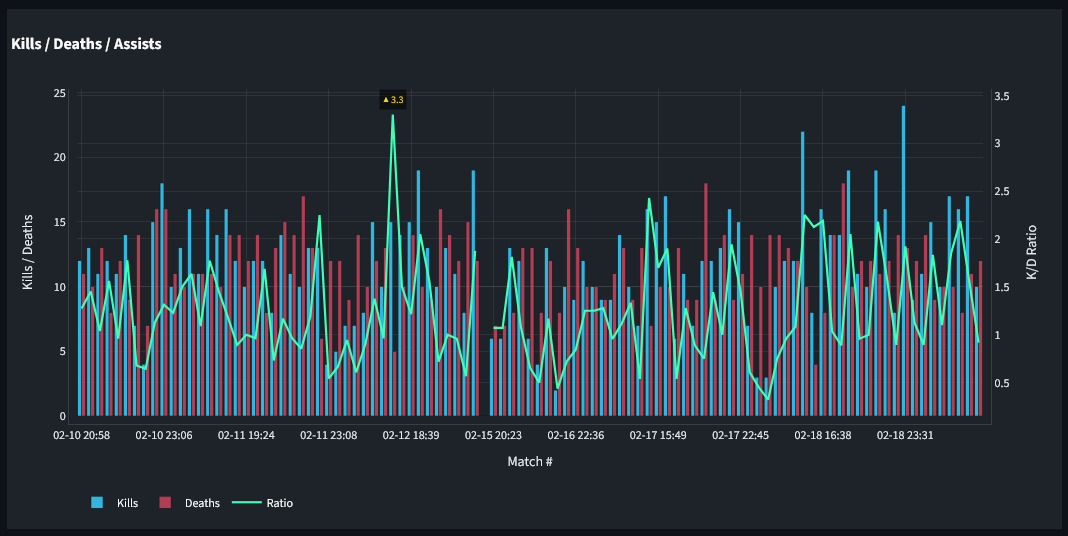
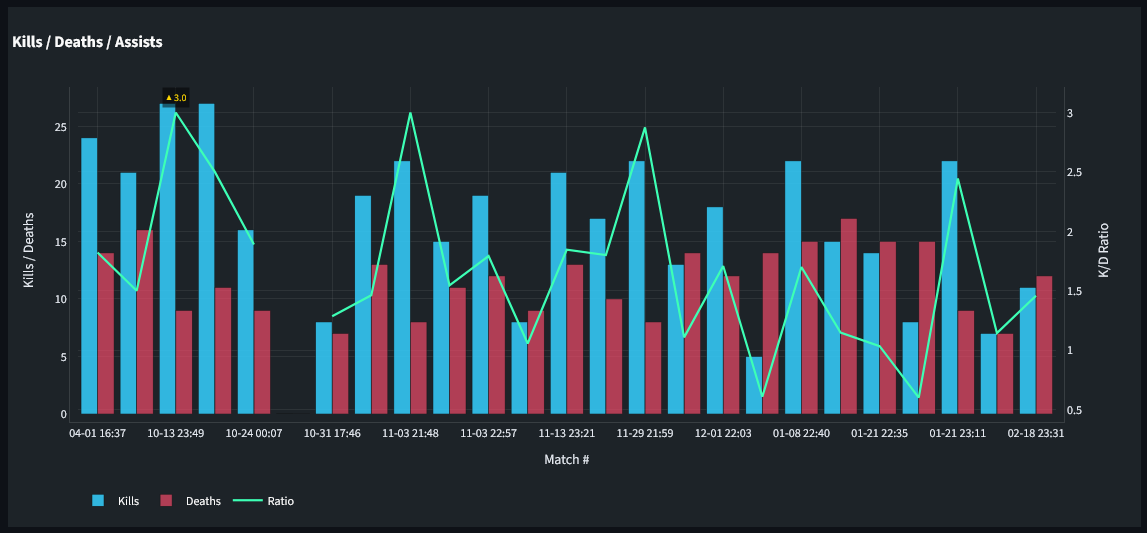
chore(env): réparer venv + port fixe 8501 + alias python Git Bash
- Réinstallation Python 3.12.10 (désinstallé par erreur)
- Régénération des launchers venv (pip.exe pointait vers Openspartan-graph)
- run.sh : corriger chemin .venv_windows → .venv
- activate_env.sh : ajouter alias python/python3/pip pour masquer l'alias Microsoft Store dans Git Bash
- .streamlit/config.toml : fixer le port Streamlit à 8501 (stable)
- launcher.py : port par défaut 8501 sur tous les appels _launch_streamlit
- .gitignore : ajouter exception pour .streamlit/config.toml

diff --git a/launcher.py b/launcher.py
@@ -624,7 +624,7 @@ def _cmd_sync(args: argparse.Namespace) -> int:
 
     # Lancer le dashboard si demandé
     if getattr(args, "run", False):
-        return _launch_streamlit(db_path=None, port=None, no_browser=False)
+        return _launch_streamlit(db_path=None, port=8501, no_browser=False)
 
     return 0
 
@@ -742,7 +742,7 @@ def _interactive() -> int:
             print("\n⚠ Aucune donnée joueur trouvée.")
             print("  Lance d'abord une synchronisation (choix 2 ou 3)")
             return 2
-        return _launch_streamlit(db_path=None, port=None, no_browser=False)
+        return _launch_streamlit(db_path=None, port=8501, no_browser=False)
 
     if choice == "2":
         if not players:
@@ -796,7 +796,7 @@ Architecture v4:
 
     # run
     p_run = sub.add_parser("run", help="Lance le dashboard")
-    p_run.add_argument("--port", type=int, default=None, help="Port (sinon auto)")
+    p_run.add_argument("--port", type=int, default=8501, help="Port (défaut : 8501)")
     p_run.add_argument("--no-browser", action="store_true", help="Ne pas ouvrir le navigateur")
     p_run.set_defaults(func=_cmd_run)
 

diff --git a/src/ui/pages/match_view_charts.py b/src/ui/pages/match_view_charts.py
@@ -64,9 +64,9 @@ def render_expected_vs_actual(
         else:
             dm = float(delta_mmr)
             col = (
-                "var(--color-win)"
+                "#4CAF50"  # --color-win
                 if dm > 0
-                else ("var(--color-loss)" if dm < 0 else "var(--color-tie)")
+                else ("#F44336" if dm < 0 else "#9E9E9E")  # --color-loss / --color-tie
             )
             os_card(t("mvc_mmr_gap"), f"{dm:+.1f}", t("mvc_mmr_gap_sub"), accent=col, kpi_color=col)
 

diff --git a/README.md b/README.md
@@ -125,7 +125,7 @@
 
 | Last match | Scoreboard |
 |:-:|:-:|
-| ![Last match](docs/screenshots/last-match.png) | ![Scoreboard Commendations](docs/screenshots/Scorebard-commendations.png) |
+| ![Summary](docs/screenshots/last-match.png) | ![Scoreboard Commendations](docs/screenshots/Scorebard-commendations.png) |
 | Impact & Dominance | Antagonists |
 | ![Impact & Dominance](docs/screenshots/impact-dominance.png) | ![Antagonists](docs/screenshots/antagonist.png) |
 
@@ -139,7 +139,7 @@
 |:-:|:-:|
 | ![Session history](docs/screenshots/history.png) | ![Squad complementarity](docs/screenshots/per-minute-complementarity.png) |
 | **Teammates performance** | **Squad ranking** |
-| ![Teammates performance](docs/screenshots/performance-spree.png) | ![Squad ranking](docs/screenshots/teammate-heatmap.png) |
+| ![Squad performance](docs/screenshots/performance-spree.png) | ![Squad ranking](docs/screenshots/teammate-heatmap.png) |
 
 *Filter your sessions by squad: compare your stats when playing with friends and see how you and your teammates perform across shared matches.*
 
